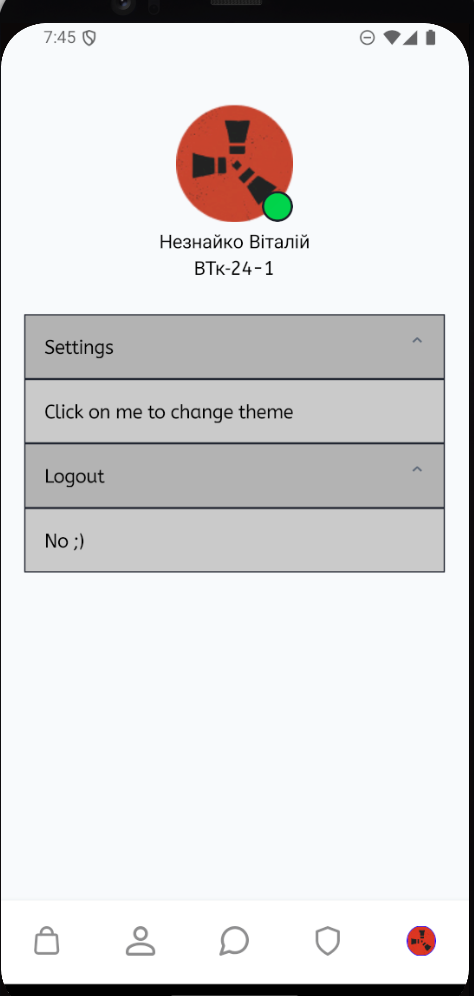
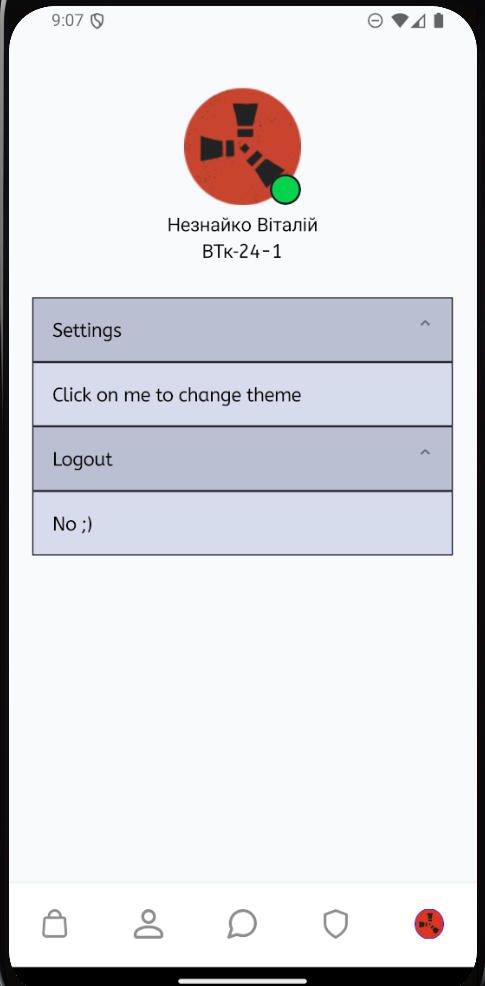
Update White Theme: ExpandableButton and Info

diff --git a/components/ExpandableButton.js b/components/ExpandableButton.js
@@ -57,7 +57,7 @@ const ThemedPress = styled(TouchableOpacity)`
   height: 54px;
   border-width: 1px;
   border-color: #202532;
-  background-color: ${(props) => props.theme.strip};
+  background-color: ${(props) => props.theme.expandedInfo};
   justify-content: space-between;
   padding: 16px 16px;
 `;
@@ -75,7 +75,7 @@ const ExpandedInfo = styled.View`
   height: 54px;
   border-width: 1px;
   border-color: #202532;
-  background-color: ${(props) => props.theme.strip};
+  background-color: ${(props) => props.theme.expandedInfo};
   justify-content: space-between;
   padding: 16px 16px;
 `;

diff --git a/assets/Themes.js b/assets/Themes.js
@@ -8,7 +8,8 @@ export const lightTheme = {
   selectListDeactive: "#D9E2EC",
   selectListActive: "#31BCFC",
   strip: "rgb(202, 202, 202)",
-  buttonOption: "rgb(179, 179, 179)",
+  buttonOption: "rgb(186, 192, 210)",
+  expandedInfo: "rgb(214, 220, 235) ",
 };
 
 export const darkTheme = {
@@ -22,4 +23,5 @@ export const darkTheme = {
   selectListDeactive: "#303649",
   strip: "#171a24",
   buttonOption: "rgb(38, 44, 60)",
+  expandedInfo: "#171a24",
 };
